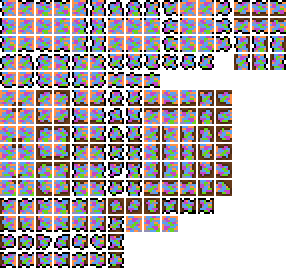
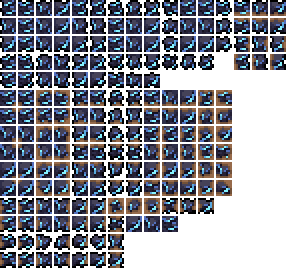
Shields (Descriptions for each commented out)
Also added the shield sprite for the Snow Bank, done by Cloud, rest are placeholders.

diff --git a/Blocks/CrystalCaverns/Tiles/LushGrowth.cs b/Blocks/CrystalCaverns/Tiles/LushGrowth.cs
@@ -8,22 +8,56 @@ namespace AerovelenceMod.Blocks.CrystalCaverns.Tiles
 {
     public class LushGrowth : ModTile
     {
-        public override void SetDefaults()
-        {
-			mineResist = 2.5f;
-			minPick = 59;
-            Main.tileSolid[Type] = true;
-            Main.tileMerge[Type][mod.TileType("CrystalDirt")] = true;
-            Main.tileMerge[Type][mod.TileType("CrystalGrass")] = true;
-            Main.tileMerge[Type][mod.TileType("CavernStone")] = true;
-            Main.tileMergeDirt[Type] = true;
-            Main.tileBlockLight[Type] = true;
-            Main.tileLighted[Type] = true;
-            AddMapEntry(new Color(061, 079, 110));
-			dustType = 59;
-			soundType = SoundID.Tink;
-			drop = ModContent.ItemType<LushGrowthItem>();
-
-        }
-    }
+		public static int _type;
+		public override void SetDefaults()
+		{
+			Main.tileSolid[Type] = true;
+			SetModTree(new CrystalTree());
+			Main.tileMerge[Type][mod.TileType("CavernStone")] = true;
+			Main.tileBlendAll[this.Type] = true;
+			Main.tileMergeDirt[Type] = true;
+			Main.tileLighted[Type] = true;
+			Main.tileBlockLight[Type] = true;
+			AddMapEntry(new Color(105, 211, 029));
+			drop = mod.ItemType("LushGrowthItem");
+			TileID.Sets.Grass[Type] = true;
+			TileID.Sets.NeedsGrassFraming[Type] = true;
+			TileID.Sets.NeedsGrassFramingDirt[Type] = mod.TileType("CavernStone");
+		}
+		public override void KillTile(int i, int j, ref bool fail, ref bool effectOnly, ref bool noItem)
+		{
+			if (!effectOnly)
+			{
+				fail = true;
+				Main.tile[i, j].type = (ushort)mod.TileType("CavernStone");
+				WorldGen.SquareTileFrame(i, j, true);
+				Dust.NewDust(new Vector2(i * 16, j * 16), 16, 16, DustID.Marble, 0f, 0f, 0, new Color(121, 121, 121), 1f);
+			}
+		}
+		public static bool PlaceObject(int x, int y, int type, bool mute = false, int style = 0, int alternate = 0, int random = -1, int direction = -1)
+		{
+			TileObject toBePlaced;
+			if (!TileObject.CanPlace(x, y, type, style, direction, out toBePlaced, false))
+			{
+				return false;
+			}
+			toBePlaced.random = random;
+			if (TileObject.Place(toBePlaced) && !mute)
+			{
+				WorldGen.SquareTileFrame(x, y, true);
+			}
+			return false;
+		}
+		public override int SaplingGrowthType(ref int style)
+		{
+			style = 0;
+			return mod.TileType("CrystalSapling");
+		}
+		public override void ModifyLight(int i, int j, ref float r, ref float g, ref float b)
+		{
+			r = 0f;
+			g = 0.250f;
+			b = 0.050f;
+		}
+	}
 }

diff --git a/Blocks/CrystalCaverns/Tiles/CavernCrystal.cs b/Blocks/CrystalCaverns/Tiles/CavernCrystal.cs
@@ -4,6 +4,7 @@ using AerovelenceMod.Items.Placeable.CrystalCaverns;
 using System;
 using Terraria.ID;
 using Microsoft.Xna.Framework;
+using AerovelenceMod.Dusts;
 
 namespace AerovelenceMod.Blocks.CrystalCaverns.Tiles
 {
@@ -26,6 +27,16 @@ namespace AerovelenceMod.Blocks.CrystalCaverns.Tiles
             soundType = SoundID.Tink;
             drop = ModContent.ItemType<CavernCrystalItem>();
         }
+        public override void NearbyEffects(int i, int j, bool closer)
+        {
+            Lighting.AddLight(new Vector2(i + 0.5f, j + 0.5f) * 16, new Vector3(0.1f, 0.32f, 0.5f) * 0.35f);
+            Vector2 dustVelocity = Vector2.UnitX * 18f;
+            if (Main.rand.Next(40) == 0)
+            {
+                Dust.NewDustPerfect(new Vector2(i + Main.rand.NextFloat(), j + Main.rand.NextFloat()) * 16, ModContent.DustType<Charge>(), new Vector2(0, -Main.rand.NextFloat(4, 6)), 0, default, Main.rand.NextFloat(0.4f, 0.7f));
+            }
+        }
+        
         public override void ModifyLight(int i, int j, ref float r, ref float g, ref float b)
         {
             r = 0.0f;

diff --git a/Items/Shields/CrystallizedWall.cs b/Items/Shields/CrystallizedWall.cs
@@ -1,0 +1,25 @@
+/*using Terraria;
+using Terraria.ID;
+using Terraria.ModLoader;
+
+namespace AerovelenceMod.Items.Tools
+{
+	public class CrystallizedWall : ModItem
+	{
+		public override void SetStaticDefaults()
+		{
+			DisplayName.SetDefault("Crystallized Wall");
+			Tooltip.SetDefault("100 shield capacity\n15 recharge rate\n7 recharge delay\nImpact shield\nHas a small chance to reflect projectiles\nReduces contact damage, but doesn't protect you from it");
+		}
+
+		public override void SetDefaults()
+		{
+			// This shield will have a small chance to reflect projectiles and reduce contact damage from NPCs. Reflected projectiles will become friendly and harm the boss. Heavily resistant to all electric-type attacks.
+			// shield.capacity = 100; (Low, attacks do more damage to shield capacity unlike HP)
+			// shield.rechargeRate = 15; (15% of the total shield capacity)
+			// shield.rechargeDelay = 7; (Measured in seconds)
+			// shield.Impact = true;
+		}
+	}
+}
+*/

diff --git a/Items/Shields/SkyGaurd.cs b/Items/Shields/SkyGaurd.cs
@@ -1,0 +1,25 @@
+/*using Terraria;
+using Terraria.ID;
+using Terraria.ModLoader;
+
+namespace AerovelenceMod.Items.Tools
+{
+	public class SkyGuard : ModItem
+	{
+		public override void SetStaticDefaults()
+		{
+			DisplayName.SetDefault("Sky Guard");
+			Tooltip.SetDefault("250 shield capacity\n30 recharge rate\n7 recharge delay\nBubble shield\nBlocks projectile damage\nAlmost no protection from contact damage\nProtects against electricity, but consumes high shield capacity.");
+		}
+
+		public override void SetDefaults()
+		{
+			// This shield will protect the player from almost all projectiles, but has no protection to contact damage. Electricity can't pass through the shield but will greatly take down shield capacity.
+			// shield.capacity = 250; (Attacks do more damage to shield capacity unlike HP)
+			// shield.rechargeRate = 30; (This is a fast regenerating shield)
+			// shield.rechargeDelay = 7; (Measured in seconds)
+			// shield.Bubble = true;
+		}
+	}
+}
+*/

diff --git a/Items/Shields/Polarizer.cs b/Items/Shields/Polarizer.cs
@@ -1,0 +1,25 @@
+/*using Terraria;
+using Terraria.ID;
+using Terraria.ModLoader;
+
+namespace AerovelenceMod.Items.Tools
+{
+	public class Polarizer : ModItem
+	{
+		public override void SetStaticDefaults()
+		{
+			DisplayName.SetDefault("Polarizer");
+			Tooltip.SetDefault("100 shield capacity\n7.5 recharge rate\n20 recharge delay\nImpact shield\nReduces damage\nWorks sometimes, but won't fully protect you");
+		}
+
+		public override void SetDefaults()
+		{
+			// This shield will sometimes prevent damage, but unlike other shields, will only protect the player from attacks sometimes. This will still count towards shield durability. Slightly resistant to all electric-type attacks.
+			// shield.capacity = 100; (Low, attacks do more damage to shield capacity unlike HP)
+			// shield.rechargeRate = 15; (15% of the total shield capacity)
+			// shield.rechargeDelay = 20; (Measured in seconds)
+			// shield.Impact = true;
+		}
+	}
+}
+*/

diff --git a/Items/Shields/FallingDefense.cs b/Items/Shields/FallingDefense.cs
@@ -1,0 +1,25 @@
+/*using Terraria;
+using Terraria.ID;
+using Terraria.ModLoader;
+
+namespace AerovelenceMod.Items.Tools
+{
+	public class FallingDefense : ModItem
+	{
+		public override void SetStaticDefaults()
+		{
+			DisplayName.SetDefault("Falling Defense");
+			Tooltip.SetDefault("300 shield capacity\n5 recharge rate\n5 recharge delay\nTurtle shield\nBlocks most contact damage\nAlmost no protection from projectiles");
+		}
+
+		public override void SetDefaults()
+		{
+			// This shield will protect the player from almost all contact damage, has a ton of shield capacity. But, recharges incredibly slow. Projectiles don't affect the shield, and will pass right through it.
+			// shield.capacity = 300; (Attacks do more damage to shield capacity unlike HP)
+			// shield.rechargeRate = 5; (This is a fast regenerating shield)
+			// shield.rechargeDelay = 5; (Measured in seconds)
+			// shield.Turtle = true;
+		}
+	}
+}
+*/

diff --git a/Blocks/CrystalCaverns/Tiles/ChargedStone.cs b/Blocks/CrystalCaverns/Tiles/ChargedStone.cs
@@ -16,14 +16,20 @@ namespace AerovelenceMod.Blocks.CrystalCaverns.Tiles
             Main.tileMerge[Type][mod.TileType("CrystalDirt")] = true;
             Main.tileMerge[Type][mod.TileType("CrystalGrass")] = true;
             Main.tileMerge[Type][mod.TileType("CavernStone")] = true;
+            Main.tileMerge[Type][mod.TileType("ChargedStone")] = true;
             Main.tileMergeDirt[Type] = true;
             Main.tileBlockLight[Type] = true;
             Main.tileLighted[Type] = true;
-            AddMapEntry(new Color(061, 079, 110));
+            AddMapEntry(new Color(089, 120, 179));
 			dustType = 59;
 			soundType = SoundID.Tink;
 			drop = ModContent.ItemType<ChargedStoneItem>();
-
+        }
+        public override void ModifyLight(int i, int j, ref float r, ref float g, ref float b)
+        {
+            r = 0.0f;
+            g = 0.6f;
+            b = 0.9f;
         }
     }
 }

diff --git a/Items/Shields/VoidSuit.cs b/Items/Shields/VoidSuit.cs
@@ -1,0 +1,25 @@
+/*using Terraria;
+using Terraria.ID;
+using Terraria.ModLoader;
+
+namespace AerovelenceMod.Items.Tools
+{
+	public class VoidSuit : ModItem
+	{
+		public override void SetStaticDefaults()
+		{
+			DisplayName.SetDefault("Void Suit");
+			Tooltip.SetDefault("500 shield capacity\n100 burst recharge rate\n8 recharge delay\nBubble shield\nReflects all projectiles\nReduces contact damage greatly");
+		}
+
+		public override void SetDefaults()
+		{
+			// This shield will protect from all projectiles and almost all contact damage. Recharges in bursts of 100 every 5 seconds.
+			// shield.capacity = 500; (Low, attacks do more damage to shield capacity unlike HP)
+			// shield.rechargeRate = 100; (Regenerates 100 every 5 seconds, but only in bursts)
+			// shield.rechargeDelay = 8; (Measured in seconds)
+			// shield.Impact = true;
+		}
+	}
+}
+*/

diff --git a/Items/Shields/Firewall.cs b/Items/Shields/Firewall.cs
@@ -1,0 +1,25 @@
+/*using Terraria;
+using Terraria.ID;
+using Terraria.ModLoader;
+
+namespace AerovelenceMod.Items.Tools
+{
+	public class FireWall : ModItem
+	{
+		public override void SetStaticDefaults()
+		{
+			DisplayName.SetDefault("Firewall");
+			Tooltip.SetDefault("175 shield capacity\n5 recharge rate\n10 recharge delay\nBubble shield\nHas a small chance to reflect projectiles\nGrants a buff when a projectile is deflected");
+		}
+
+		public override void SetDefaults()
+		{
+			// This shield will have a small chance to reflect projectiles. Grants a buff when the shield deflects a projectile.
+			// shield.capacity = 175; (Attacks do more damage to shield capacity unlike HP)
+			// shield.rechargeRate = 5; (This is a fast regenerating shield)
+			// shield.rechargeDelay = 10; (Measured in seconds)
+			// shield.Bubble = true;
+		}
+	}
+}
+*/

diff --git a/Items/Shields/SnowBank.cs b/Items/Shields/SnowBank.cs
@@ -1,0 +1,25 @@
+/*using Terraria;
+using Terraria.ID;
+using Terraria.ModLoader;
+
+namespace AerovelenceMod.Items.Tools
+{
+	public class SnowBank : ModItem
+	{
+		public override void SetStaticDefaults()
+		{
+			DisplayName.SetDefault("Snow Bank");
+			Tooltip.SetDefault("50 shield capacity\n15 recharge rate\n10 recharge delay\nImpact shield\nPrevents damage\nPrevents damage from high heat");
+		}
+
+		public override void SetDefaults()
+		{
+			// This shield will prevent damage from lethal liquids such as lava, and a few "hot" projectiles and tiles like Hellstone, until it's broken.
+			// shield.durability = 100; (Low, similar to player HP)
+			// shield.rechargeRate = 7.5; (15% of the total shield capacity)
+			// shield.rechargeDelay = 10; (Measured in seconds)
+			// shield.Impact = true;
+		}
+	}
+}
+*/

diff --git a/Blocks/CrystalCaverns/Tiles/CitadelStone.cs b/Blocks/CrystalCaverns/Tiles/CitadelStone.cs
@@ -17,11 +17,12 @@ namespace AerovelenceMod.Blocks.CrystalCaverns.Tiles
             Main.tileMerge[Type][mod.TileType("CrystalDirt")] = true;
             Main.tileMerge[Type][mod.TileType("CrystalGrass")] = true;
             Main.tileMerge[Type][mod.TileType("FieldStone")] = true;
+            Main.tileMerge[Type][mod.TileType("CavernStone")] = true;
             Main.tileMergeDirt[Type] = true;
             Main.tileBlockLight[Type] = false;
             Main.tileLighted[Type] = true;
             Main.tileBlockLight[Type] = true;
-            AddMapEntry(new Color(065, 065, 085));
+            AddMapEntry(new Color(046, 045, 072));
             dustType = 59;
             soundType = SoundID.Tink;
             drop = ModContent.ItemType<CitadelStoneItem>();

diff --git a/Blocks/CrystalCaverns/Tiles/CavernStone.cs b/Blocks/CrystalCaverns/Tiles/CavernStone.cs
@@ -18,7 +18,10 @@ namespace AerovelenceMod.Blocks.CrystalCaverns.Tiles
             Main.tileSolid[Type] = true;
             Main.tileMerge[Type][mod.TileType("CrystalDirt")] = true;
             Main.tileMerge[Type][mod.TileType("CrystalGrass")] = true;
+            Main.tileMerge[Type][mod.TileType("ChargedStone")] = true;
             Main.tileMerge[Type][mod.TileType("FieldStone")] = true;
+            Main.tileMerge[Type][mod.TileType("CitadelStone")] = true;
+            Main.tileMerge[Type][mod.TileType("LushGrowth")] = true;
             Main.tileMergeDirt[Type] = true;
             Main.tileBlockLight[Type] = true;
             Main.tileLighted[Type] = true;
